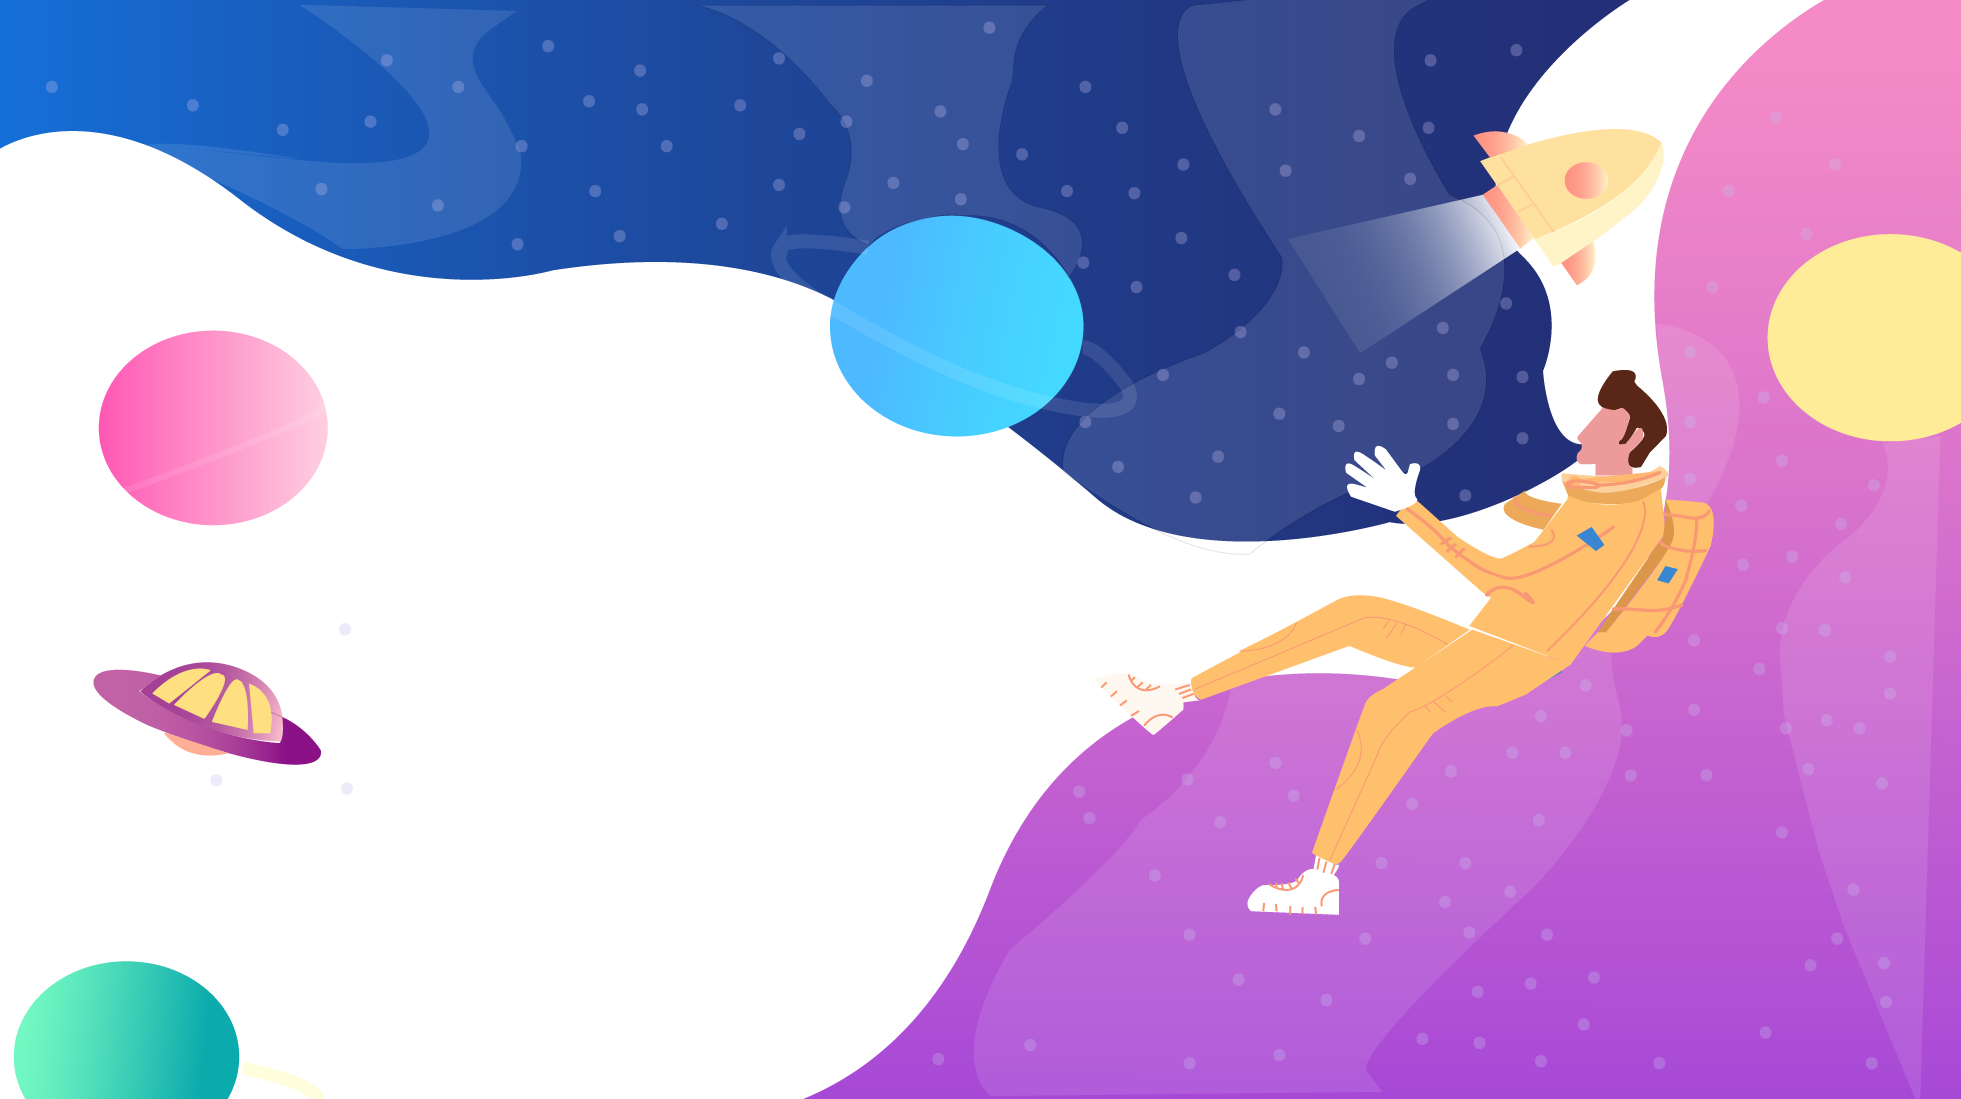
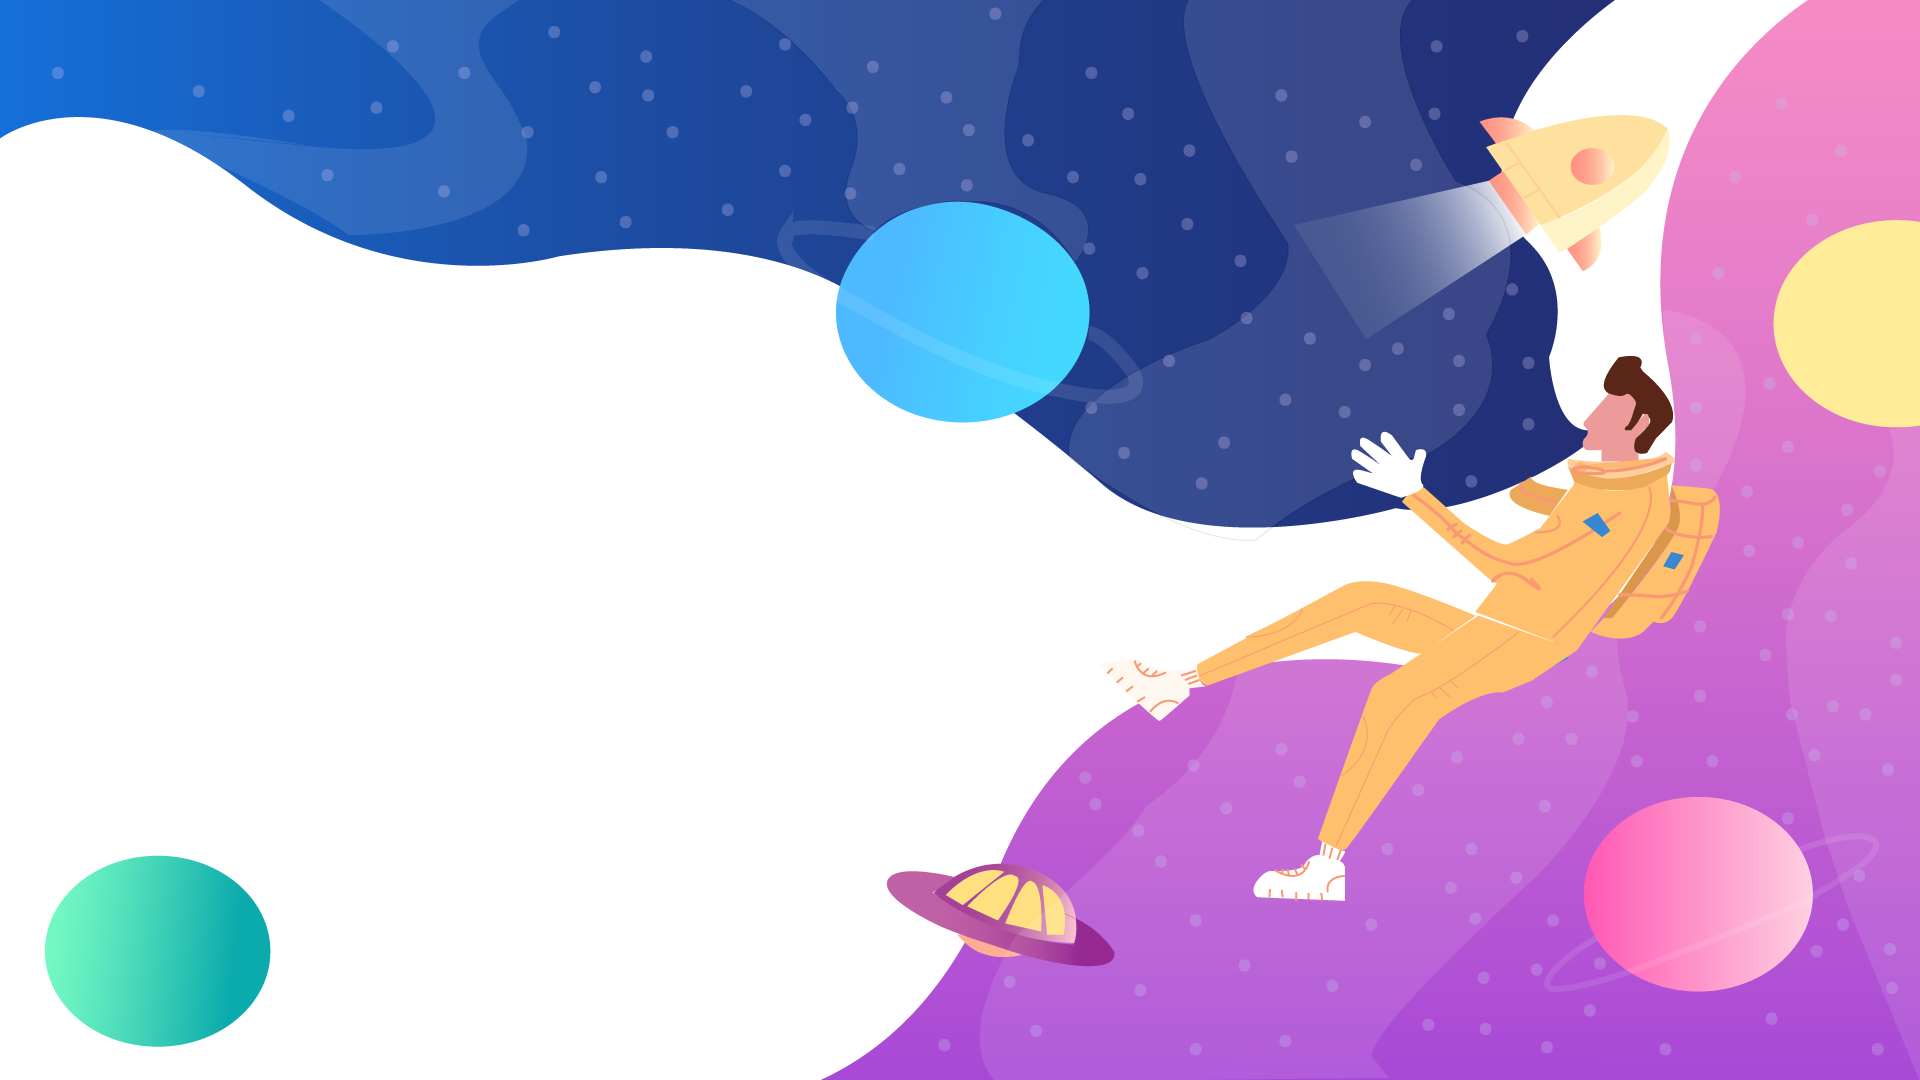
add other sections

diff --git a/style.css b/style.css
@@ -18,10 +18,10 @@ body{
 /* --------------------NAVBAR STYLING----------------- */
 
 .header{
-    background-image: url(/assets/espacio.png);
+    background-image: url(/assets/space3.png);
     background-size: cover;
     background-position: center;
-    height: 100vh;
+    height: 115vh;
     width: 100%;
 }
 
@@ -133,7 +133,7 @@ body{
     display: flex;
     justify-content: space-between;
     width: 100%;
-    height: 80vh;
+    height: 100vh;
     align-items: center;
 }
 
@@ -160,9 +160,6 @@ body{
 /* ----------------- NOSOTROS STYLING ----------------  */
 
 .nosotros{
-    background-image: url(/assets/space3.png);
-    background-size: cover;
-    background-position: center;
     height: 100vh;
     width: 100%;
     display: flex;
@@ -180,20 +177,19 @@ body{
     text-align: center;
 }
 
-
 .title{
-    margin: 35px 0;
     width: 100%;
-    color: #fff;
+    color: #852cde;
     font-size: 30px;
+    margin-top: 3%;
 }
+
 .contenido{
     width: 100%;
-    height: 80vh;
+    height: 90vh;
     align-items: center;
     display: flex;
     justify-content: space-evenly;
-
 }
 
 .imagen{
@@ -222,9 +218,7 @@ body{
 /* ----------------- SERVICIOS STYLING ----------------  */
 
 .servicios{
-    background-image: url(/assets/space2.png);
-    background-position:left;
-    height: 80vh;
+    height: 100vh;
     width: 100%;
     display: flex;
 }
@@ -236,7 +230,8 @@ body{
 }
 
 .servicios .container-services .title{
-    color: #852cde;
+    color: #f98fc5;
+    margin-bottom: 40px;
 }
 
 .serv-content{
@@ -247,12 +242,13 @@ body{
 
 .card{
     width: 25%;
-    background: black;
+    background:#fff;
     text-align: center;
     border-radius: 6px;
     padding: 40px 20px;
     cursor: pointer;
     font-size: 30px;
+    border: #f8d3a6 1px solid;
 }
 
 /* .card:hover{
@@ -269,7 +265,7 @@ body{
 
 .card i{
     font-size: 50px;
-    color:#ffffff;
+    color:#f8d3a6;
     transition: 0.3s ease all;
 }
 
@@ -278,11 +274,11 @@ body{
     font-size: 35px;
     font-weight: bold;
     margin: 10px 0 7px 0;
-    color: #fff;
+    color: #ffa48e;
 }
 
 .box p{
-    color: #fff;
+    color: #f8d3a6;
     padding: 15px 0;
 }
 
@@ -291,15 +287,22 @@ body{
 .contact {
     background-image: url(/assets/space3.png);
     background-size: cover;
-    background-position:bottom;
-    height: 100vh;
+    background-position:left;
+    height: 90vh;
     width: 100%;
     display: flex;
 }
 
 .contact .contenedor{
-    margin: 0 auto;
-    width: 70%;
+    margin: 10px auto;
+    width: 50%;
+    height: 630px;
+    background: rgb(35,49,120);
+    background: linear-gradient(172deg, rgba(35,49,120,1) 0%, rgba(21,111,215,1) 100%);
+}
+
+.contact .contenedor .title{
+    color: #fff;
 }
 .contact form{
     text-align: center;
@@ -316,7 +319,7 @@ body{
 .contact form textarea{
     padding: 0.8rem;
     font-size: 1.2rem;
-    background: #ffcddf;
+    background: #fff;
     text-transform: none;
     margin: 1rem 0;
     width: 46%;
@@ -326,7 +329,7 @@ body{
 .contact form textarea{
     height: 15rem;
     resize: none;
-    width: 97.6%;
+    width: 96.7%;
 }
 
 
@@ -334,16 +337,16 @@ body{
 
 
 .newsletter{
-    background-image: url(/assets/espacio-sin-hombre.png);
+    background-image: url(/assets/space2.png);
     background-size: cover;
-    background-position: initial;
+    background-position: center;
     text-align: center;
     padding: 5rem 2rem;
 }
 
 .newsletter h3{
     font-size: 3rem;
-    color:white;
+    color: #852cde ;
 }
 
 .newsletter form {
@@ -352,7 +355,7 @@ body{
     align-items: center;
     margin: 1rem auto;
     padding: 1.5rem;
-    background: rgba(0,0,0,.1);
+    background: #852cde27;
 }
 
 .newsletter form .box{
@@ -370,7 +373,8 @@ body{
 /* ------------------FOOTER STYLING --------------------*/
 
 footer{
-    background: #171a47;
+    background: rgb(35,49,120);
+    background: linear-gradient(90deg, rgba(35,49,120,1) 0%, rgba(234,129,200,1) 100%);
     padding: 20px 23px;
     color: #fff;
     text-align: center;
@@ -390,10 +394,6 @@ footer span a:hover{
 
 @media (max-width: 1255px){
 
-
-    .nosotros-contenedor{
-        overflow-x: hidden;
-    }
     
     .contenedor{
         display: flex;
@@ -405,8 +405,9 @@ footer span a:hover{
         flex-direction: row;
     }
 
-    .title{
+    .nosotros-contenedor .contenedor .title{
         font-size: 20px;
+        margin: 20px 0;
     }
 
 
@@ -420,9 +421,27 @@ footer span a:hover{
         padding: 5px 0;
     }
 
-    .imagen{
-        display: none;
+    
+
+    .serv-content {
+        display: block;
     }
+
+
+    .card {
+        width: 80%;
+        margin: 20px auto;
+    }
+
+    .servicios .serv-content .card .text{
+        font-size: 30px;
+    }
+
+    .servicios .serv-content .card .box p{
+        font-size: 20px;
+    }
+
+
 }
 
 
@@ -485,13 +504,16 @@ footer span a:hover{
 
 @media (max-width: 670px){
 
+    html{
+        overflow-x: scroll;
+    }
+
     .text-container .container{
         width: 70%;
     }
 
     .text-container .container .titulo{
         font-size: 5vh;
-        
     }
 
     .text-container .container .sub{
@@ -503,8 +525,71 @@ footer span a:hover{
         padding:7px 30px;
         letter-spacing: 2px;
     }
-   
+
+    .nosotros{
+        height: 78vh;
+    }
+
+    .imagen{
+        display: none;
+    }
+
+    .servicios{
+        height: auto;
+    }
+
+    .servicios .container-services .title{
+        font-size: 22px;
+    }
+
+    .contact .contenedor {
+        margin: 0;
+        width: 100%;
+        height: auto;
+    }
+
+    .contact .contenedor .title {
+        color: #fff;
+        font-size: 23px;
+    }
+
+    .contact form .inputBox {
+        flex-wrap: nowrap;
+    }
+
+    .contact form textarea {
+        height: 5rem;
+    }
+
+    .contact form .inputBox input, .contact form textarea {
+        margin: 1rem 0.1em;
+        width: 90%;
+    }
+
+    .newsletter form {
+        width: 100%;
+        display: block;
+    }
+
+    .newsletter h3 {
+        font-size: 2.5rem;
+    }
+
+    .newsletter form {
+        width: auto;
+    }
+
+    .newsletter form .box {
+        width: 80%;
+    }
 }
+
+@media (max-width: 350px){
+    .nosotros{
+        height: 90vh;
+    }
+}
+
 
 
 
